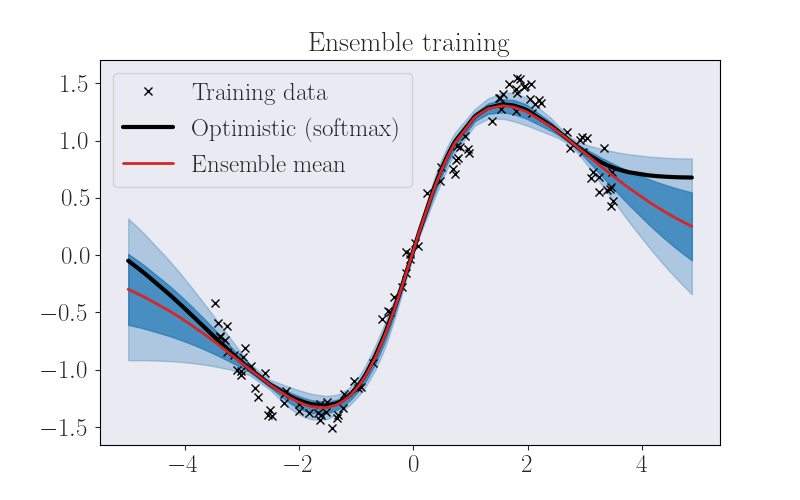
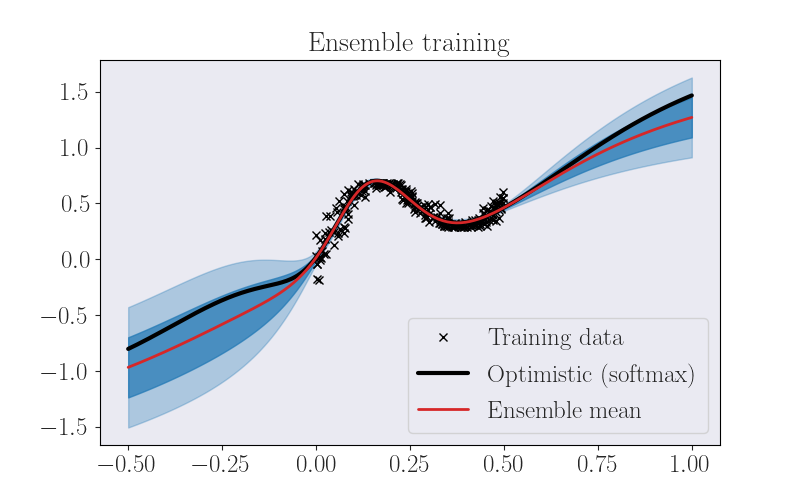
fix data, update readme

diff --git a/jax_ensemble/utils.py b/jax_ensemble/utils.py
@@ -4,33 +4,91 @@ import jax.random as jrn
 import seaborn as sns
 import matplotlib.pyplot as plt
 
-def create_1d_dataset(key, size, minval=-3.5, maxval=3.5, sort=False):
+def create_dataset(key, size):
+    """Recreates the toy dataset from blundell2015weight.
 
-    key1, key2 = jax.random.split(key)
+    Parameters
+    ----------
+    key : jax.random.PRNGKey
 
-    features = jrn.uniform(key1, shape=(size, 1), minval=minval, maxval=maxval)
+    size : int
+        Number of data points to sample.
 
-    if sort:
-        features = jnp.sort(features, axis=0)
+    Returns
+    -------
+    features : float array-like, shape=(size, 1)
+        Training data features.
 
-    noise = jax.random.normal(key2, shape=features.shape) * 0.1
-    labels = jnp.sin(features) + 0.25 * features + noise
+    labels : float array-like, shape=(size, 1)
+        Training data labels.
+
+    Notes
+    -----
+    The one-dimensional dataset is generated by sampling inputs x in [0, 0.5],
+    and generating labels with the following function:
+    y = x + 0.3 sin(2 pi(x + eps)) + 0.3 sin(4 pi(x + eps)) + eps,
+    where eps is sampled from N(0, 0.02).
+
+    Source: Blundell et al. 2015. Weight Uncertainty in Neural Networks.
+    Proceedings of the 32nd International Conference on Machine Learning.
+    """
+
+    key1, key2 = jax.random.split(key) # One key for features, one for noise.
+
+    features = jrn.uniform(key1, shape=(size, 1), minval=0.0, maxval=0.5)
+
+    mean, stddev = 0.0, 0.02
+    noise = mean + stddev * jax.random.normal(key2, shape=features.shape)
+
+    labels = features + 0.3 * jnp.sin(2 * jnp.pi * (features + noise))
+    labels += 0.3 * jnp.sin(4 * jnp.pi * (features + noise)) + noise
 
     return features, labels
 
 def draw_ensemble_batch(key, x_data, y_data, batch_size, num_models):
+    """Draw an individual batch from full training set for each ensemble member.
 
-    n_data = x_data.shape[0]
+    Parameters
+    ----------
+    key : jax.PRNGKey
+
+    x_data : float array-like
+        Features of the full training dataset.
+
+    y_data : float array-like
+        Labels of the full training dataset.
+
+    batch_size : int
+        The number of data points going to each ensemble member.
+
+    num_models : int
+        How many members does the ensemble network have.
+
+    Returns
+    -------
+    batch : dict
+        A {"inputs": inputs, "labels": labels} dictionary. The inputs object
+        has a shape (num_models, batch_size, input_dim), and the labels
+        object has a shape (num_models, batch_size, 1).
+    """
+
+    num_data = x_data.shape[0]
     num_draws = batch_size * num_models
 
-    inds = jax.random.randint(key, minval=0, maxval=n_data, shape=(num_draws,))
-    shape = (num_models, batch_size, -1)
-    return dict(inputs=x_data[inds].reshape(*shape),
-                labels=y_data[inds].reshape(*shape))
+    inds = jax.random.randint(key, minval=0, maxval=num_data, shape=(num_draws,))
+    out_shape = (num_models, batch_size, -1)
+    return dict(inputs=x_data[inds].reshape(*out_shape),
+                labels=y_data[inds].reshape(*out_shape))
 
 
 def set_fig_layout(cfg):
-    """Set consistent plot layouts."""
+    """Set consistent plot layouts.
+
+    Parameters
+    ----------
+    cfg : dict
+        Matplotlib and seaborn style configurations.
+    """
 
     sns.set_palette(cfg["palette"])
     sns.set_style(**cfg["seaborn"])

diff --git a/experiments/train_mlp/run.py b/experiments/train_mlp/run.py
@@ -1,8 +1,9 @@
 import hydra
 import jax
+import jax.numpy as jnp
 import matplotlib.pyplot as plt
 from jax_ensemble.mlp import create_train_state, train_step_fn, pred_fn
-from jax_ensemble.utils import create_1d_dataset, set_fig_layout
+from jax_ensemble.utils import create_dataset, set_fig_layout
 
 
 @hydra.main(version_base=None, config_path="../../conf", config_name="config")
@@ -13,14 +14,11 @@ def main(cfg):
     # -------------------------
     key = jax.random.PRNGKey(cfg["experiment_seed"])
 
-    # This toy experiments requires exactly three random keys: one for
-    # generating the training dataset, one for creating the evaluation dataset,
-    # and one for initializing the neural network.
-    keys = iter(jax.random.split(key, 3))
-    x_train, y_train = create_1d_dataset(
-        next(keys), size=cfg["train"]["num_train_data"])
+    key, subkey = jax.random.split(key)
+    x_train, y_train = create_dataset(subkey, size=cfg["train"]["num_train_data"])
 
-    state = create_train_state(next(keys), cfg["mlp"])
+    key, subkey = jax.random.split(key)
+    state = create_train_state(subkey, cfg["mlp"])
     batch = {"inputs": x_train, "labels": y_train}
 
     # TRAINING LOOP
@@ -33,8 +31,7 @@ def main(cfg):
 
     # EVALUATION
     # ----------
-    x_eval, _ = create_1d_dataset(
-        next(keys), minval=-5, maxval=5, size=cfg["train"]["num_eval_data"], sort=True)
+    x_eval = jnp.linspace(-0.5, 1.0, cfg["train"]["num_eval_data"]).reshape((-1, 1))
     preds = pred_fn(state, x_eval)
 
     set_fig_layout(cfg["plots"])

diff --git a/experiments/train_ensemble/run.py b/experiments/train_ensemble/run.py
@@ -1,8 +1,9 @@
 import hydra
 import jax
+import jax.numpy as jnp
 import matplotlib.pyplot as plt
 from jax_ensemble.ensemble import Ensemble
-from jax_ensemble.utils import (create_1d_dataset,
+from jax_ensemble.utils import (create_dataset,
                                 draw_ensemble_batch,
                                 set_fig_layout)
 
@@ -18,12 +19,11 @@ def main(cfg):
     ens = Ensemble(subkey, cfg["mlp"], cfg["ensemble"])
 
     key, subkey = jax.random.split(key)
-    x_train, y_train = create_1d_dataset(
+    x_train, y_train = create_dataset(
         subkey, size=cfg["train"]["num_train_data"])
 
     key, subkey = jax.random.split(key)
-    x_eval, _ = create_1d_dataset(
-        subkey, minval=-5, maxval=5, size=cfg["train"]["num_eval_data"], sort=True)
+    x_eval = jnp.linspace(-0.5, 1.0, cfg["train"]["num_eval_data"]).reshape((-1, 1))
 
 
     # TRAINING LOOP
@@ -36,7 +36,7 @@ def main(cfg):
         mean_loss = ens.train(batch)
 
         if step % 100 == 0:
-           print(f"Step: {step}, mean loss: {mean_loss:.5f}")
+            print(f"Step: {step}, mean loss: {mean_loss:.5f}")
 
     # EVALUATION
     # ----------

diff --git a/jax_ensemble/mlp.py b/jax_ensemble/mlp.py
@@ -7,7 +7,6 @@ import flax.linen as nn
 from flax.training import train_state
 
 
-
 class MLP(nn.Module):
     """Standard multilayer perceptron."""
     features: Sequence[int]

diff --git a/README.md b/README.md
@@ -1,2 +1,25 @@
 # jax-ensemble
-A JAX template for a neural network ensemble with randomized prior functions.
+A JAX template for neural network ensembles with randomized priors.
+
+Ensembling multiple individual neural networks into a single model is a simple
+and effective method for quantifying predictive uncertainty.
+This repository uses a toy dataset to set up an ensemble template in [JAX](https://github.com/google/jax).
+Using JAX makes ensembling particularly simple, as we can just vectorize
+(```jax.vmap```) the network initialization and training steps, and use otherwise standard neural network architectures and code.
+To improve the uncertianty estimates of neural network models, this repo considers
+[randomized prior functions](https://proceedings.neurips.cc/paper/2018/file/5a7b238ba0f6502e5d6be14424b20ded-Paper.pdf)
+ &agrave; la Osband et al. 2018.
+
+## Training results
+
+The ensemble behaviour is very intuitive. In regions with plentiful training examples, all ensemble members agree
+on the prediction. However, in areas with fewer data points, the variance within the ensemble members
+effectively quantifies the epistemic uncertainty. The figure below illustrates the idea.
+
+![](experimets/results/ens.png)
+
+### References
+
+The implementation draws from:
+
+https://willwhitney.com/parallel-training-jax.html#training-more-networks-in-parallel
